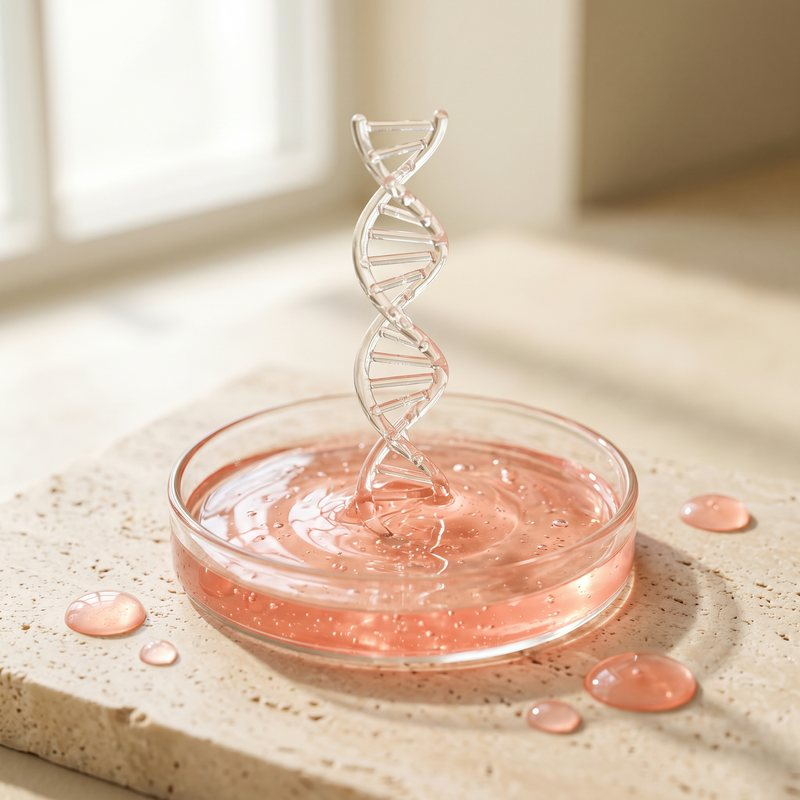
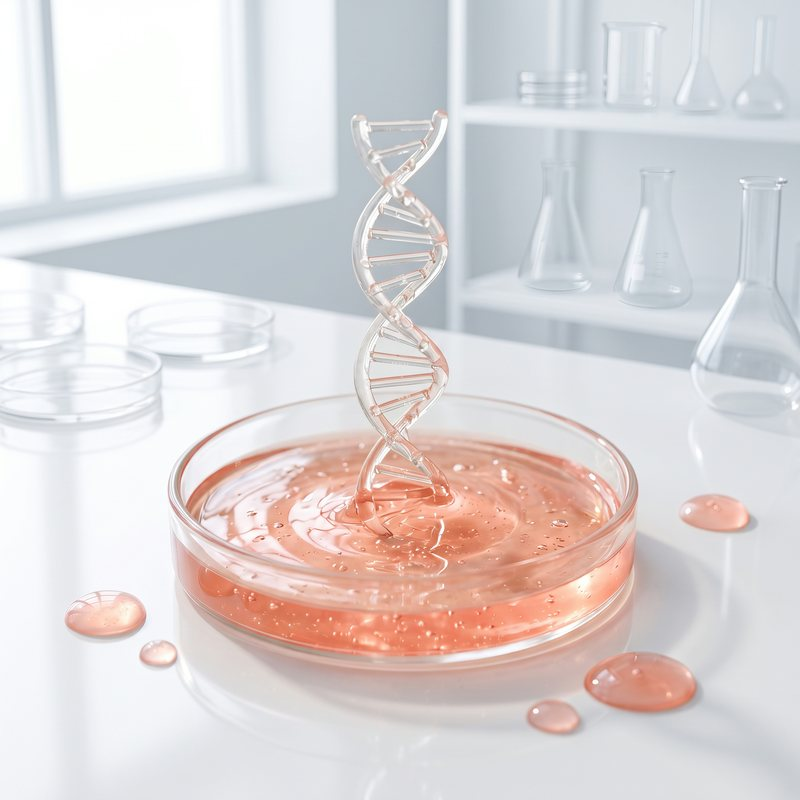
APF sales page: ingredient photos on a bright white lab bench
The 8 ingredient photos move from the warm stone set to a bright white lab (white bench, lab
glassware softly behind), as the owner asked ("more white lab"): Kie Nano Banana 2 edits of the
first shots at 2K, so each ingredient keeps its look. Two touch-ups: the squalane gel pool rests on
the bench (it floated), the beech leaves without gold flecks. 800 px, 27-67 KB each.

Claude-Session: https://claude.ai/code/session_01DD3dpN8XTMfDVHXy9eWksc

diff --git a/skinofab-theme/templates/pages/page.adaptive-foundation-offer.html b/skinofab-theme/templates/pages/page.adaptive-foundation-offer.html
@@ -274,7 +274,7 @@
       <p class="sf-eyebrow" style="text-align:center">Skincare inside</p>
       <h2 class="sf-h2 sf-h2--big" style="text-align:center">Skincare in every layer you wear</h2>
       <p style="text-align:center;max-width:680px;margin:0 auto 18px">The ingredients of the creams you would buy separately, in a foundation. It evens the look of your skin while you wear it; it treats nothing.</p>
-      <ul class="sf-ing sf-ing--photos"><li><img src="{% endverbatim %}{{ 'sfa/sfa-ingr-pdrn-c59563.jpg'|asset_url }}{% verbatim %}" alt="A glass dish of soft pink serum gel with a clear glass DNA helix rising from it" width="800" height="800" loading="lazy" decoding="async"><div><strong>PDRN</strong><span>Sodium DNA from salmon, the K-beauty favorite for skin after 45, and the name on the bottle.</span></div></li><li><img src="{% endverbatim %}{{ 'sfa/sfa-ingr-peptides-5f330f.jpg'|asset_url }}{% verbatim %}" alt="A chain of clear and amber glass beads beside a pool of clear serum and a glass dropper" width="800" height="800" loading="lazy" decoding="async"><div><strong>Matrixyl 3000</strong><span>Peptides used in expression-line creams.</span></div></li><li><img src="{% endverbatim %}{{ 'sfa/sfa-ingr-beech-53bcc7.jpg'|asset_url }}{% verbatim %}" alt="Beech leaves, a slice of beech wood and a dish of fine white sugar crystals" width="800" height="800" loading="lazy" decoding="async"><div><strong>A beech-sugar active</strong><span>Hydroxypropyl tetrahydropyrantriol, from beech-wood sugar: a staple of skincare for thinner, drier skin.</span></div></li><li><img src="{% endverbatim %}{{ 'sfa/sfa-ingr-niacinamide-3f9241.jpg'|asset_url }}{% verbatim %}" alt="A glass dish of fine white niacinamide powder with a glass spatula" width="800" height="800" loading="lazy" decoding="async"><div><strong>Niacinamide</strong><span>For the look of uneven tone.</span></div></li><li><img src="{% endverbatim %}{{ 'sfa/sfa-ingr-adenosine-b4fef9.jpg'|asset_url }}{% verbatim %}" alt="A swirl of clear silky gel with soft rippled waves" width="800" height="800" loading="lazy" decoding="async"><div><strong>Adenosine</strong><span>A classic of Korean skincare for the look of lines.</span></div></li><li><img src="{% endverbatim %}{{ 'sfa/sfa-ingr-ha-82d702.jpg'|asset_url }}{% verbatim %}" alt="A plump dome of clear hydrating gel with dewy droplets" width="800" height="800" loading="lazy" decoding="async"><div><strong>Hyaluronic acid, two forms</strong><span>Holds water at the surface, so skin feels comfortable, not tight.</span></div></li><li><img src="{% endverbatim %}{{ 'sfa/sfa-ingr-ceramide-b981df.jpg'|asset_url }}{% verbatim %}" alt="A swirl of rich white cream beside small translucent tiles laid like bricks" width="800" height="800" loading="lazy" decoding="async"><div><strong>Ceramide NP</strong><span>The skin’s own barrier lipid, for dry skin.</span></div></li><li><img src="{% endverbatim %}{{ 'sfa/sfa-ingr-squalane-99660d.jpg'|asset_url }}{% verbatim %}" alt="Golden oil drops falling from a glass pipette into clear gel" width="800" height="800" loading="lazy" decoding="async"><div><strong>Squalane and panthenol</strong><span>Light moisture that doesn’t sit greasy.</span></div></li></ul>
+      <ul class="sf-ing sf-ing--photos"><li><img src="{% endverbatim %}{{ 'sfa/sfa-ingr-pdrn-4a9842.jpg'|asset_url }}{% verbatim %}" alt="On a white lab bench, a glass dish of soft pink serum gel with a clear glass DNA helix rising from it" width="800" height="800" loading="lazy" decoding="async"><div><strong>PDRN</strong><span>Sodium DNA from salmon, the K-beauty favorite for skin after 45, and the name on the bottle.</span></div></li><li><img src="{% endverbatim %}{{ 'sfa/sfa-ingr-peptides-3c7056.jpg'|asset_url }}{% verbatim %}" alt="A chain of clear and amber glass beads beside a pool of clear serum and a glass dropper" width="800" height="800" loading="lazy" decoding="async"><div><strong>Matrixyl 3000</strong><span>Peptides used in expression-line creams.</span></div></li><li><img src="{% endverbatim %}{{ 'sfa/sfa-ingr-beech-545731.jpg'|asset_url }}{% verbatim %}" alt="Beech leaves, a slice of beech wood and a dish of fine white sugar crystals" width="800" height="800" loading="lazy" decoding="async"><div><strong>A beech-sugar active</strong><span>Hydroxypropyl tetrahydropyrantriol, from beech-wood sugar: a staple of skincare for thinner, drier skin.</span></div></li><li><img src="{% endverbatim %}{{ 'sfa/sfa-ingr-niacinamide-3d914c.jpg'|asset_url }}{% verbatim %}" alt="A glass dish of fine white niacinamide powder with a glass spatula" width="800" height="800" loading="lazy" decoding="async"><div><strong>Niacinamide</strong><span>For the look of uneven tone.</span></div></li><li><img src="{% endverbatim %}{{ 'sfa/sfa-ingr-adenosine-fa1b35.jpg'|asset_url }}{% verbatim %}" alt="A swirl of clear silky gel with soft rippled waves" width="800" height="800" loading="lazy" decoding="async"><div><strong>Adenosine</strong><span>A classic of Korean skincare for the look of lines.</span></div></li><li><img src="{% endverbatim %}{{ 'sfa/sfa-ingr-ha-00b508.jpg'|asset_url }}{% verbatim %}" alt="A plump dome of clear hydrating gel with dewy droplets" width="800" height="800" loading="lazy" decoding="async"><div><strong>Hyaluronic acid, two forms</strong><span>Holds water at the surface, so skin feels comfortable, not tight.</span></div></li><li><img src="{% endverbatim %}{{ 'sfa/sfa-ingr-ceramide-81b9c5.jpg'|asset_url }}{% verbatim %}" alt="A swirl of rich white cream beside small translucent tiles laid like bricks" width="800" height="800" loading="lazy" decoding="async"><div><strong>Ceramide NP</strong><span>The skin’s own barrier lipid, for dry skin.</span></div></li><li><img src="{% endverbatim %}{{ 'sfa/sfa-ingr-squalane-6b8b13.jpg'|asset_url }}{% verbatim %}" alt="Golden oil drops falling from a glass pipette into clear gel" width="800" height="800" loading="lazy" decoding="async"><div><strong>Squalane and panthenol</strong><span>Light moisture that doesn’t sit greasy.</span></div></li></ul>
       <h3 class="sf-h3" style="text-align:center;margin-top:28px">We read what women over 45 wrote about color-changing foundations. Then we answered each complaint.</h3>
       <div class="sf-fixgrid"><div class="sf-fix"><div style="display:block"><q>Doesn’t match my skin tone.</q><br><small>a complaint we hear often</small></div><div>One adaptive shade that shifts toward your tone as you blend, and a 30-day guarantee if it doesn’t.</div></div><div class="sf-fix"><div style="display:block"><q>It dried out my skin.</q><br><small>another we hear often</small></div><div>A serum base with two forms of hyaluronic acid, ceramide NP, squalane and panthenol.</div></div><div class="sf-fix"><div style="display:block"><q>Settles into my wrinkles.</q></div><div>A satin finish and soft-focus powders, designed not to settle into lines: the powders are made to blur their look rather than fill them with pigment.</div></div><div class="sf-fix"><div style="display:block"><q>Stings my sensitive skin.</q></div><div>Fragrance-free, made without propylene glycol, drying alcohol or parabens.</div></div></div>
     </div>

diff --git a/campaigns/skinofab/src/apf-funnel/adaptive-foundation-offer.html b/campaigns/skinofab/src/apf-funnel/adaptive-foundation-offer.html
@@ -213,10 +213,11 @@ ingredients:
   title: "Skincare in every layer you wear"
   lede: "The ingredients of the creams you would buy separately, in a foundation. It evens the look of your skin while you wear it; it treats nothing."
   # a photo per ingredient (the owner, 5 Nov 2026: "show the ingredient better using real image"): still lifes generated
-  # with Nano Banana 2 (Kie) at 2K on one warm travertine set, in a style of their own (the listicle's ingredient photos
-  # are white-background textures, and the two pages share no image)
+  # with Nano Banana 2 (Kie) at 2K, on one bright white lab bench with lab glassware behind (the owner, 5 Nov 2026: "more
+  # white lab"), in a style of their own (the listicle's ingredient photos are floating textures on plain white, and the
+  # two pages share no image)
   items:
-    - { image: "images/sf/ingr-pdrn.jpg", alt: "A glass dish of soft pink serum gel with a clear glass DNA helix rising from it", name: "PDRN", role: "Sodium DNA from salmon, the K-beauty favorite for skin after 45, and the name on the bottle.", icon: "dna" }
+    - { image: "images/sf/ingr-pdrn.jpg", alt: "On a white lab bench, a glass dish of soft pink serum gel with a clear glass DNA helix rising from it", name: "PDRN", role: "Sodium DNA from salmon, the K-beauty favorite for skin after 45, and the name on the bottle.", icon: "dna" }
     - { image: "images/sf/ingr-peptides.jpg", alt: "A chain of clear and amber glass beads beside a pool of clear serum and a glass dropper", name: "Matrixyl 3000", role: "Peptides used in expression-line creams.", icon: "chain" }
     - { image: "images/sf/ingr-beech.jpg", alt: "Beech leaves, a slice of beech wood and a dish of fine white sugar crystals", name: "A beech-sugar active", role: "Hydroxypropyl tetrahydropyrantriol, from beech-wood sugar: a staple of skincare for thinner, drier skin.", icon: "tree" }
     - { image: "images/sf/ingr-niacinamide.jpg", alt: "A glass dish of fine white niacinamide powder with a glass spatula", name: "Niacinamide", role: "For the look of uneven tone.", icon: "spark" }

diff --git a/docs/apf-funnel.md b/docs/apf-funnel.md
@@ -352,9 +352,11 @@ offers and campaign 2221 are unchanged; they simply get no traffic from the sale
   only with its certificate in hand.
 - **Ingredient photos** (the owner, 5 Nov 2026: "show the ingredient better using real image"). The eight ingredient
   cards ("Skincare in every layer you wear") each have a photo now: PDRN, Matrixyl 3000, the beech-sugar active,
-  niacinamide, adenosine, hyaluronic acid, ceramide NP, squalane and panthenol. They are still lifes on one warm
-  travertine set, generated with Nano Banana 2 on Kie at 2K, with no text or labels in them. They are saved at 800 px as
-  `images/sf/ingr-*.jpg`, 51–86 KB each, lazy-loaded. The grid is two cards a row on a phone and four on a laptop. The
+  niacinamide, adenosine, hyaluronic acid, ceramide NP, squalane and panthenol. They are still lifes on one bright white
+  lab bench with lab glassware behind (the owner asked for "more white lab"). They were generated with Nano Banana 2 on
+  Kie at 2K, with no text or labels in them. The lab versions are edits of the first stone-set shots, so each
+  ingredient keeps its look. They are saved at 800 px as
+  `images/sf/ingr-*.jpg`, 27–58 KB each, lazy-loaded. The grid is two cards a row on a phone and four on a laptop. The
   listicle keeps its own white-background ingredient photos, so the two pages still share no image.
 - **To end it early or go back.** Set `BLACK_FRIDAY = None` in `funnels/apf.py` and put the APF packs (git history,
   before 5 Nov 2026) back on the sales page. To move the date, change `SALE_END` in `funnels/trial.py`, the trial
